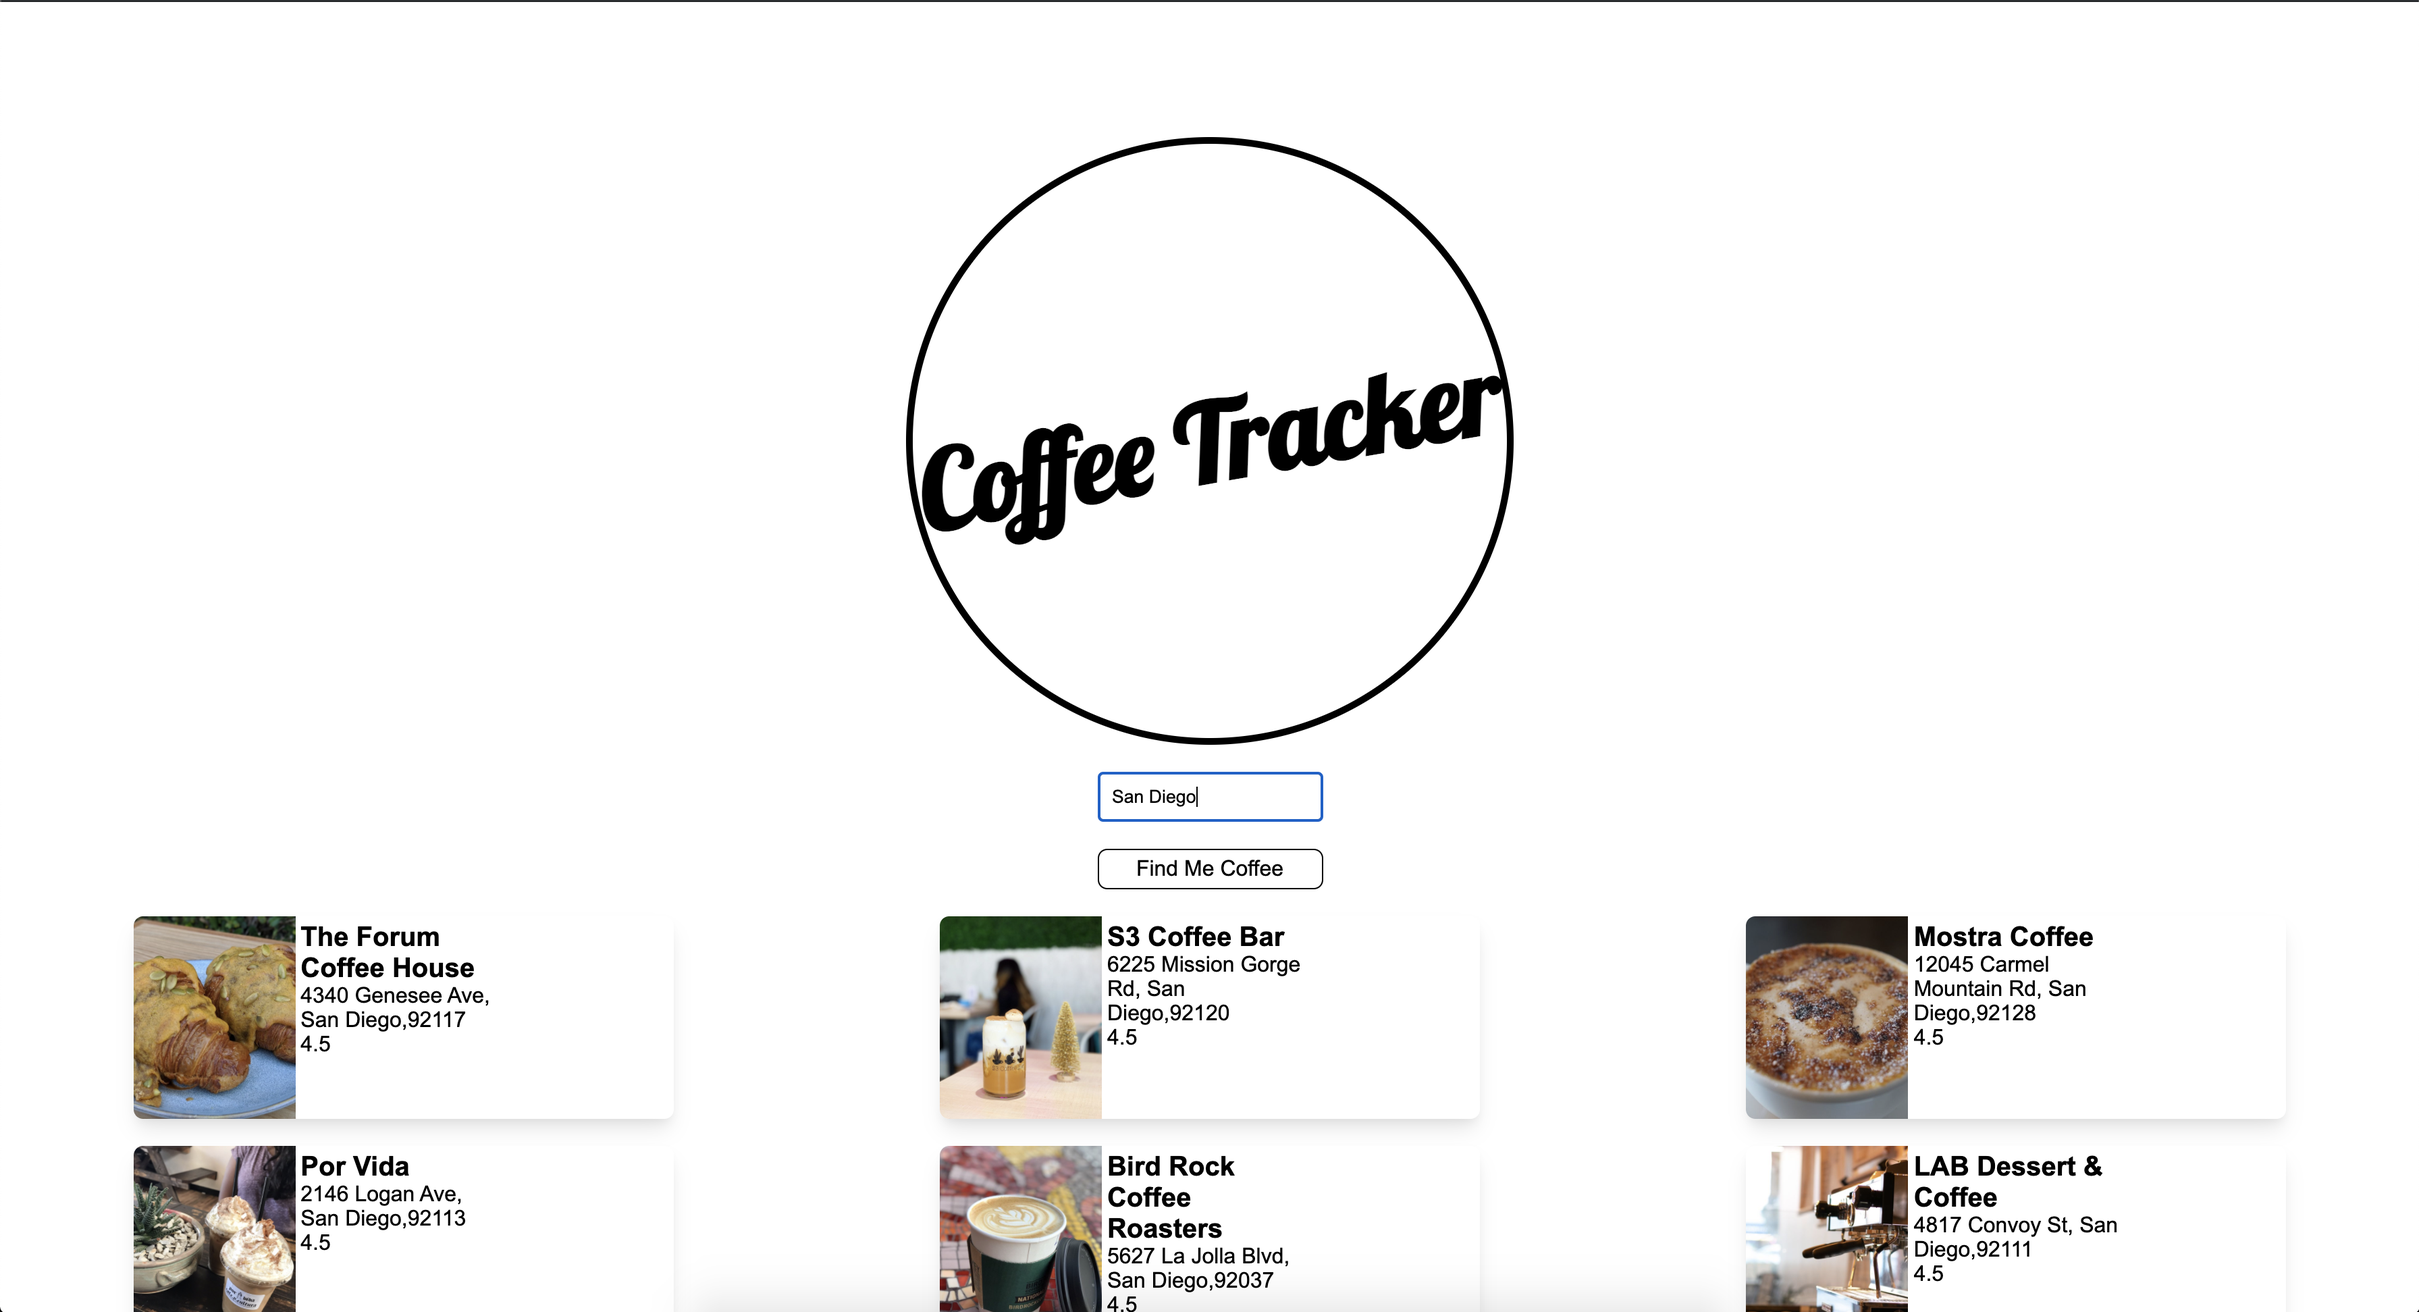
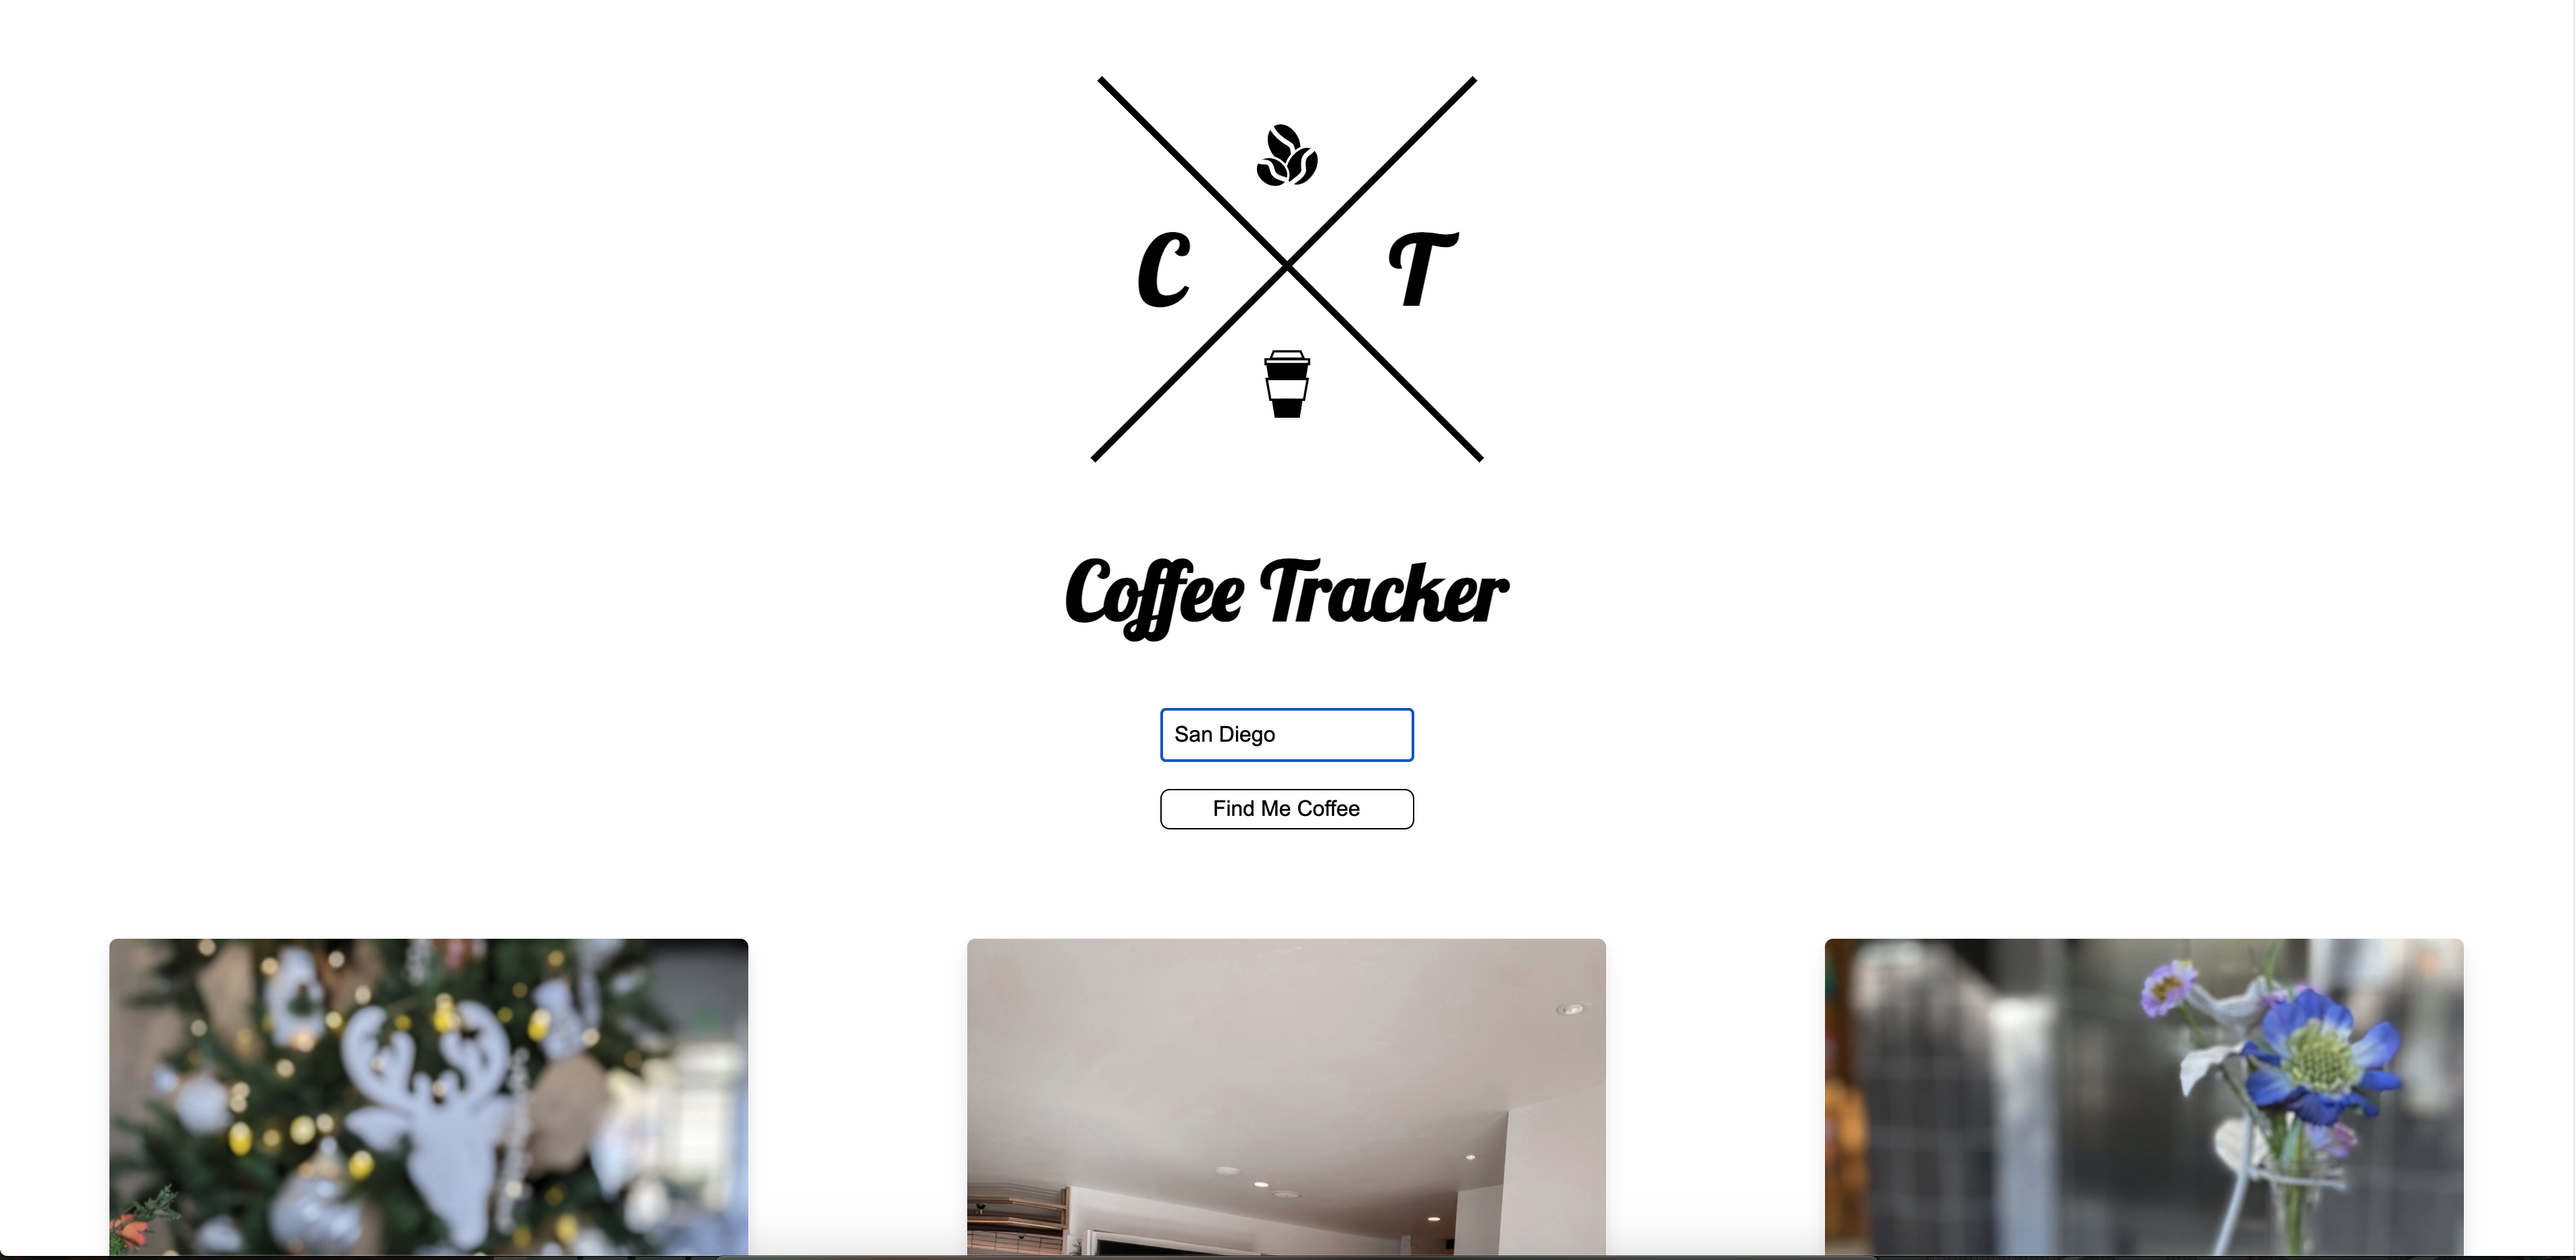
made following changes
- updated coffee tracker image
- updated about me description
- updated portfolio and coffee tracker copy

diff --git a/src/components/Portfolio.js b/src/components/Portfolio.js
@@ -5,11 +5,13 @@ const projects = [
   {
     title: 'My Portfolio!',
     description: `
-            This very website you're on right now! I made this website with
-            VueJS and have it hosted on Github Pages. Orginally my portfolio
-            was built with only with vanilla HTML and CSS but over time it
-            became hard to manage and update, with Vue I can easily swap out
-            components and keep my portfolio up to date.
+            This very website you're on right now! Oringinally I built it
+            with just html, css, and some js, but later I converted it over
+            to a VueJS project. However I wanted to benefit from SEO and be
+            able to still quickly modify components of my Portfolio, so I
+            decided to convert it to a Gatsby site instead. I also setup a
+            Github Action that builds and deploys my portfolio when I push
+            changes to my main branch.
           `,
     image: 'portfolioScreenshot',
     siteLink: 'https://chrisvaldez.dev',
@@ -19,9 +21,10 @@ const projects = [
     title: 'Coffee Tracker',
     description: `
             A Coffee Tracker app made with React that utilizes the Yelp API
-            to fetch coffee places based on a given location. The user can
-            see their rating, and address to the restaurant/cafe. It utilizes
-            Netlify serverless functions in order to talk to the Yelp API.
+            to fetch coffee places based on a given location and help you
+            find the best coffe shop near you. The user can see their rating,
+            and address to the restaurant/cafe. It utilizes Netlify
+            serverless functions in order to talk to the Yelp API.
           `,
     image: 'coffeeScreenshot',
     siteLink: 'https://coffee.chrisvaldez.dev',
@@ -84,14 +87,6 @@ const Project = ({ title, description, image, siteLink, githubLink }) => (
               Source
             </span>
           </a>
-          {/* <z-link className="mr-1" :url="project.siteLink">
-                <i className="fas fa-paper-plane"></i>
-                Visit
-              </z-link> */}
-          {/* <z-link :url="project.githubLink" outlined>
-                <i className="fab fa-github"></i>
-                Source
-              </z-link> */}
         </div>
       </div>
     </div>

diff --git a/src/components/About.js b/src/components/About.js
@@ -7,21 +7,20 @@ const About = () => {
       <div className="about-text">
         <p className="paragraph">
           I am a full stack developer from San Diego, California. I earned my
-          Bachelor's Degree in{' '} <span className="highlight">Computer
-          Science</span> from SDSU in 2018.  There I learned important skills
-          such as data structures, dynamic algorithms, and the complexities of
-          operating systems. I learned the fundamentals of Object-oriented
-          programming languages such as  <span className="highlight">Java</span>
-          {' '}and <span className="highlight">C++.</span>
+          Bachelor's Degree in <span className="mark">Computer Science</span>{' '}
+          from SDSU in 2018. There I learned core skills such as data
+          structures, dynamic algorithms, and the complexities of operating
+          systems. I learned the fundamentals of Object-oriented programming
+          languages such as <span className="mark">Java</span>
+          and <span className="mark">C++.</span>
         </p>
 
         <p className="paragraph">
           Meanwhile in school, I wanted to learn about web and mobile
           development however, there were no classes on those topics offered at
           my school. So I decided to teach myself. Starting with the basics of
-          HTML, CSS, and Javascript, After mastering those, I moved to learning
-          Jquery and Bootstrap. For the backend, I initially started learning
-          PHP and MySQL.
+          HTML, CSS, and Javascript, I quickly moved to Jquery and Bootstrap.
+          For the backend, I initially started learning PHP and MySQL.
         </p>
       </div>
     </section>

diff --git a/src/styles/base/_base.scss b/src/styles/base/_base.scss
@@ -2,7 +2,7 @@ html {
   font-size: 62.5%;
 }
 
-@import url("https://fonts.googleapis.com/css2?family=Montserrat:ital,wght@0,200;0,400;0,500;0,600;0,700;0,800;0,900;1,400;1,500;1,600;1,700;1,800;1,900&display=swap");
+@import url('https://fonts.googleapis.com/css2?family=Montserrat:ital,wght@0,200;0,400;0,500;0,600;0,700;0,800;0,900;1,400;1,500;1,600;1,700;1,800;1,900&display=swap');
 
 *,
 *::after,
@@ -198,8 +198,4 @@ body {
       padding-right: 9rem;
     }
   }
-}
-
-.highlight {
-  color: $color-primary;
 }

diff --git a/gatsby-config.js b/gatsby-config.js
@@ -1,7 +1,7 @@
 module.exports = {
   siteMetadata: {
     title: `Christian Valdez`,
-    description: `Kick off your next, great Gatsby project with this default starter. This barebones starter ships with the main Gatsby configuration files you might need.`,
+    description: `Full Stack Developer`,
     author: `@unchartedzone`,
   },
   plugins: [

diff --git a/src/styles/base/_typography.scss b/src/styles/base/_typography.scss
@@ -59,3 +59,7 @@
 .text-center {
   text-align: center;
 }
+
+.mark {
+  color: $color-primary;
+}
